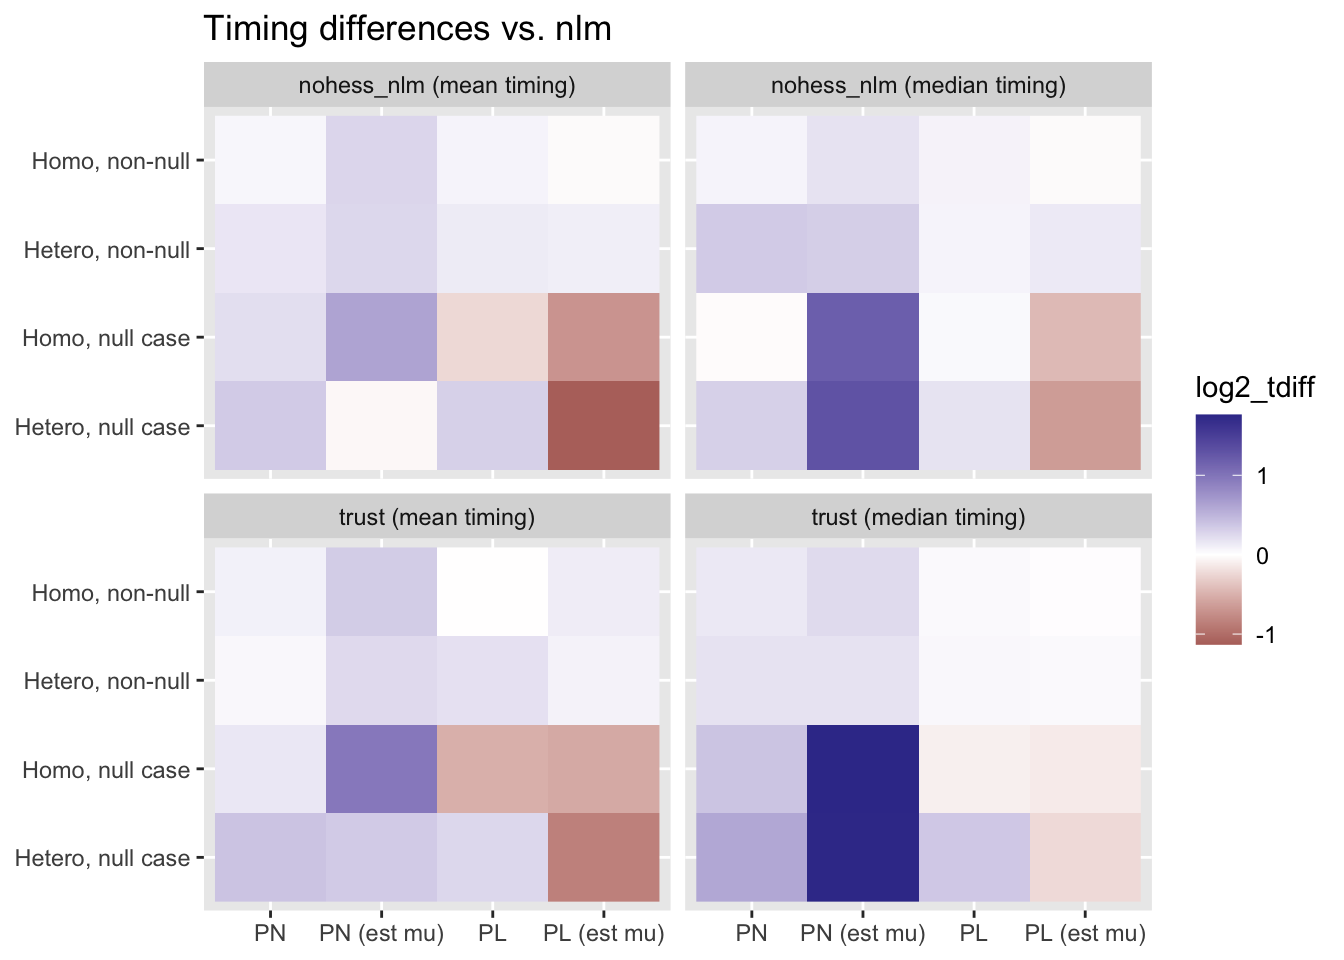
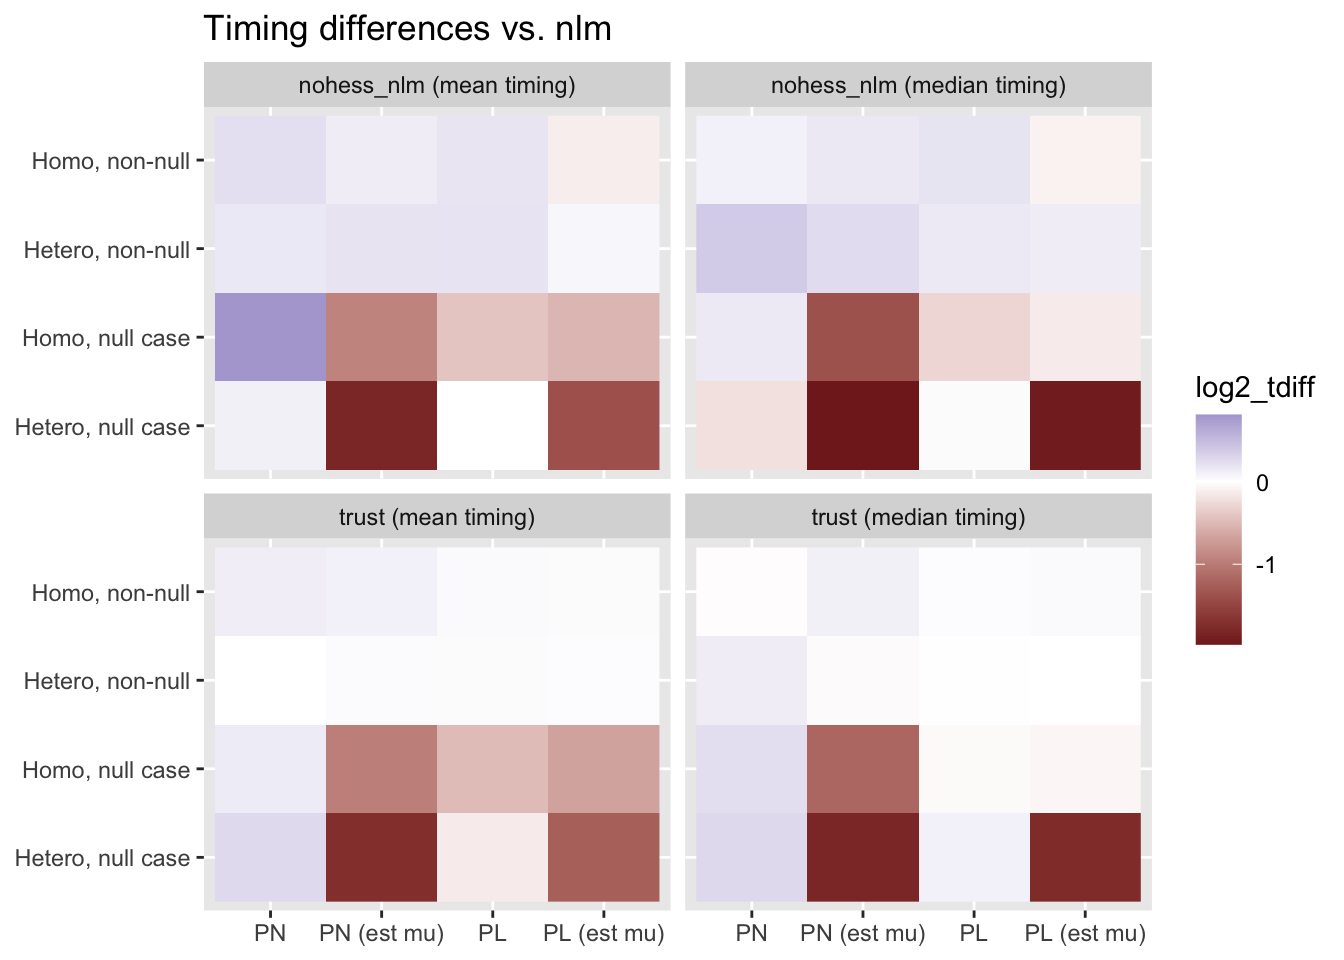
Build site.

Changed region(s): [[0.1562, 0.2812, 0.9375, 0.6875], [0.2188, 0.5625, 0.875, 0.9375]]

diff --git a/docs/optmethods.html b/docs/optmethods.html
@@ -364,7 +364,7 @@ div.section {
 <div class="tab-content">
 <div id="summary" class="tab-pane fade in active">
 <p>
-<strong>Last updated:</strong> 2021-01-13
+<strong>Last updated:</strong> 2021-01-15
 </p>
 <p>
 <strong>Checks:</strong> <span class="glyphicon glyphicon-ok text-success" aria-hidden="true"></span> 6 <span class="glyphicon glyphicon-exclamation-sign text-danger" aria-hidden="true"></span> 0
@@ -443,10 +443,10 @@ This reproducible <a href="http://rmarkdown.rstudio.com">R Markdown</a> analysis
 <div class="panel panel-default">
 <div class="panel-heading">
 <p class="panel-title">
-<a data-toggle="collapse" data-parent="#workflowr-checks" href="#strongRepositoryversionstrongahrefhttpsgithubcomwillwerscheidebnmpapertreee9d9fe3f5b1ee608cf4fd0610742d6badf944b1atargetblanke9d9fe3a"> <span class="glyphicon glyphicon-ok text-success" aria-hidden="true"></span> <strong>Repository version:</strong> <a href="https://github.com/willwerscheid/ebnm-paper/tree/e9d9fe3f5b1ee608cf4fd0610742d6badf944b1a" target="_blank">e9d9fe3</a> </a>
+<a data-toggle="collapse" data-parent="#workflowr-checks" href="#strongRepositoryversionstrongahrefhttpsgithubcomwillwerscheidebnmpapertreedb21fe6381d857d215fa60ada37bbe5ccc1d19bftargetblankdb21fe6a"> <span class="glyphicon glyphicon-ok text-success" aria-hidden="true"></span> <strong>Repository version:</strong> <a href="https://github.com/willwerscheid/ebnm-paper/tree/db21fe6381d857d215fa60ada37bbe5ccc1d19bf" target="_blank">db21fe6</a> </a>
 </p>
 </div>
[2 lines of base64/hex data omitted]
 <div class="panel-body">
 <p>
 Great! You are using Git for version control. Tracking code development and connecting the code version to the results is critical for reproducibility. The version displayed above was the version of the Git repository at the time these results were generated. <br><br> Note that you need to be careful to ensure that all relevant files for the analysis have been committed to Git prior to generating the results (you can use <code>wflow_publish</code> or <code>wflow_git_commit</code>). workflowr only checks the R Markdown file, but you know if there are other scripts or data files that it depends on. Below is the status of the Git repository when the results were generated:
@@ -457,7 +457,12 @@ Ignored files:
     Ignored:    .Rproj.user/
 
 Untracked files:
+    Untracked:  analysis/ebayesthresh.Rmd
+    Untracked:  docs/figure/ebayesthresh.Rmd/
     Untracked:  sims.R
+
+Unstaged changes:
+    Modified:   analysis/optmethods2.Rmd
 
 </code></pre>
 <p>
@@ -496,6 +501,40 @@ Message
 </tr>
 </thead>
 <tbody>
+<tr>
+<td>
+Rmd
+</td>
+<td>
+<a href="https://github.com/willwerscheid/ebnm-paper/blob/db21fe6381d857d215fa60ada37bbe5ccc1d19bf/analysis/optmethods.Rmd" target="_blank">db21fe6</a>
+</td>
+<td>
+Jason Willwerscheid
+</td>
+<td>
+2021-01-15
+</td>
+<td>
+wflow_publish(“analysis/optmethods.Rmd”)
+</td>
+</tr>
+<tr>
+<td>
+html
+</td>
+<td>
+<a href="https://rawcdn.githack.com/willwerscheid/ebnm-paper/b1ae432faf37ca0174ea03cd06f75a2c951b550b/docs/optmethods.html" target="_blank">b1ae432</a>
+</td>
+<td>
+Jason Willwerscheid
+</td>
+<td>
+2021-01-13
+</td>
+<td>
+Build site.
+</td>
+</tr>
 <tr>
 <td>
 Rmd
@@ -679,15 +718,15 @@ one_test &lt;- function(n, pn, null_case, homosked, est_mu, optmethod) {
   if (optmethod == &quot;nlm&quot;) {
     res &lt;- do.call(ebnm_fn, 
                    list(x = x, s = s, mode = ebnm_mode, optmethod = &quot;nlm&quot;, 
-                        control = list(gradtol = sqrt(.Machine$double.eps), stepmax = 1)))
+                        control = list(gradtol = sqrt(.Machine$double.eps), stepmax = 5)))
   } else if (optmethod == &quot;nohess_nlm&quot;) {
     res &lt;- do.call(ebnm_fn, 
                    list(x = x, s = s, mode = ebnm_mode, optmethod = &quot;nohess_nlm&quot;, 
-                        control = list(gradtol = sqrt(.Machine$double.eps), stepmax = 1)))
+                        control = list(gradtol = sqrt(.Machine$double.eps), stepmax = 5)))
   } else if (optmethod == &quot;trust&quot;) {
     res &lt;- do.call(ebnm_fn, 
                    list(x = x, s = s, mode = ebnm_mode, optmethod = &quot;trust&quot;,
-                        control = list(fterm = sqrt(.Machine$double.eps), rmax = 1)))
+                        control = list(fterm = sqrt(.Machine$double.eps), rmax = 5)))
   } else {
     stop(&quot;Invalid optmethod.&quot;)
   }
@@ -797,6 +836,17 @@ Date
 <tbody>
 <tr>
 <td>
+<a href="https://github.com/willwerscheid/ebnm-paper/blob/b1ae432faf37ca0174ea03cd06f75a2c951b550b/docs/figure/optmethods.Rmd/n1000-1.png" target="_blank">b1ae432</a>
+</td>
+<td>
+Jason Willwerscheid
+</td>
+<td>
+2021-01-13
+</td>
+</tr>
+<tr>
+<td>
 <a href="https://github.com/willwerscheid/ebnm-paper/blob/da9666115acc06143021cd47ca5419ea3ed800eb/docs/figure/optmethods.Rmd/n1000-1.png" target="_blank">da96661</a>
 </td>
 <td>
@@ -861,6 +911,17 @@ Date
 <tbody>
 <tr>
 <td>
+<a href="https://github.com/willwerscheid/ebnm-paper/blob/b1ae432faf37ca0174ea03cd06f75a2c951b550b/docs/figure/optmethods.Rmd/n10000-1.png" target="_blank">b1ae432</a>
+</td>
+<td>
+Jason Willwerscheid
+</td>
+<td>
+2021-01-13
+</td>
+</tr>
+<tr>
+<td>
 <a href="https://github.com/willwerscheid/ebnm-paper/blob/da9666115acc06143021cd47ca5419ea3ed800eb/docs/figure/optmethods.Rmd/n10000-1.png" target="_blank">da96661</a>
 </td>
 <td>
@@ -923,6 +984,17 @@ Date
 </tr>
 </thead>
 <tbody>
+<tr>
+<td>
+<a href="https://github.com/willwerscheid/ebnm-paper/blob/b1ae432faf37ca0174ea03cd06f75a2c951b550b/docs/figure/optmethods.Rmd/n100000-1.png" target="_blank">b1ae432</a>
+</td>
+<td>
+Jason Willwerscheid
+</td>
+<td>
+2021-01-13
+</td>
+</tr>
 <tr>
 <td>
 <a href="https://github.com/willwerscheid/ebnm-paper/blob/da9666115acc06143021cd47ca5419ea3ed800eb/docs/figure/optmethods.Rmd/n100000-1.png" target="_blank">da96661</a>
